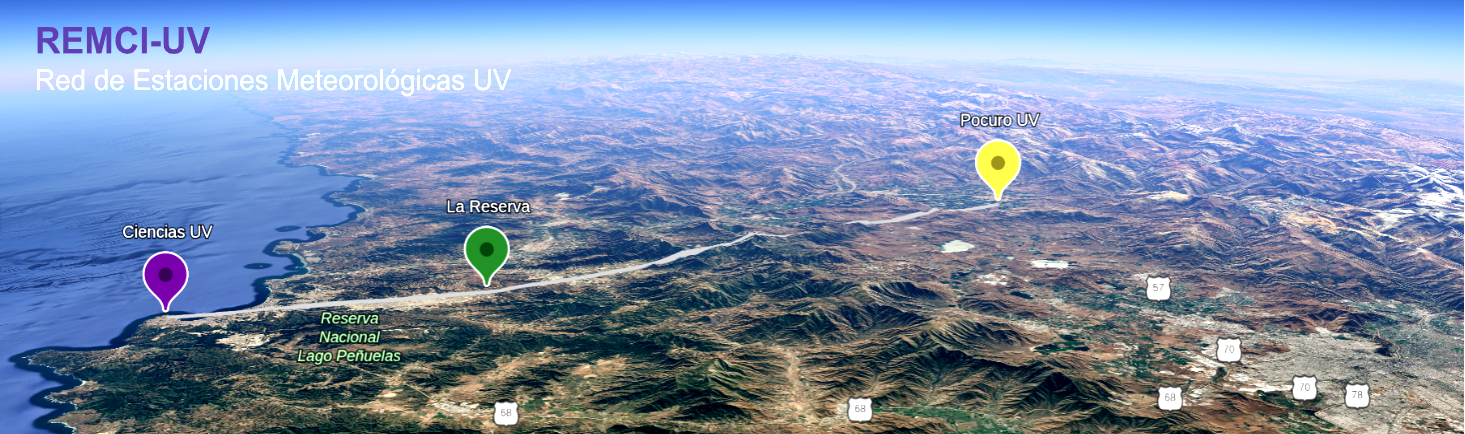
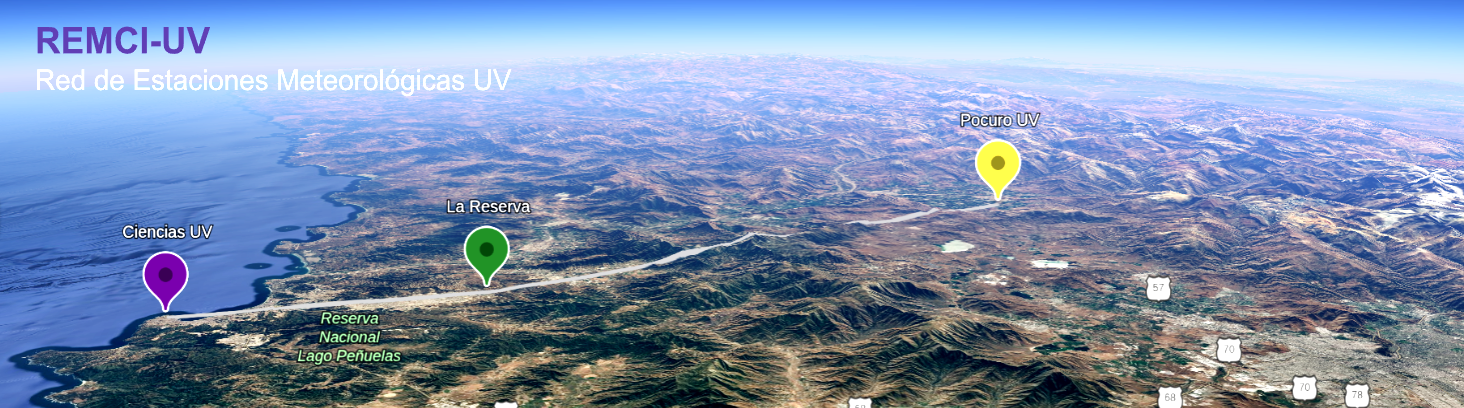
Updates

diff --git a/index.html b/index.html
@@ -2,8 +2,8 @@
 <link rel="stylesheet" href="https://unpkg.com/leaflet@1.9.4/dist/leaflet.css" />
 <link rel="icon" type="image/png" href="/REMCI-UV/cloud01.png"/>
 <html lang="en">
-  <script type="module" crossorigin src="/REMCI-UV/assets/index-F8brGADi.js"></script>
-  <link rel="stylesheet" crossorigin href="/REMCI-UV/assets/index-BpMdUapE.css">
+  <script type="module" crossorigin src="/REMCI-UV/assets/index-DJBqExDe.js"></script>
+  <link rel="stylesheet" crossorigin href="/REMCI-UV/assets/index-LRzVgdCe.css">
 
   <body>
     <div id="root"></div>